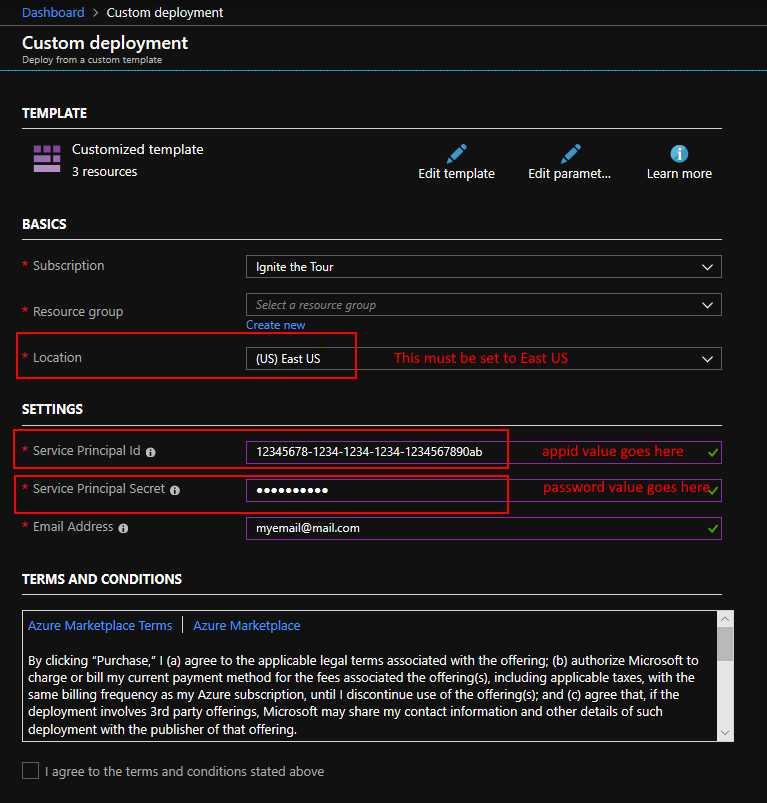
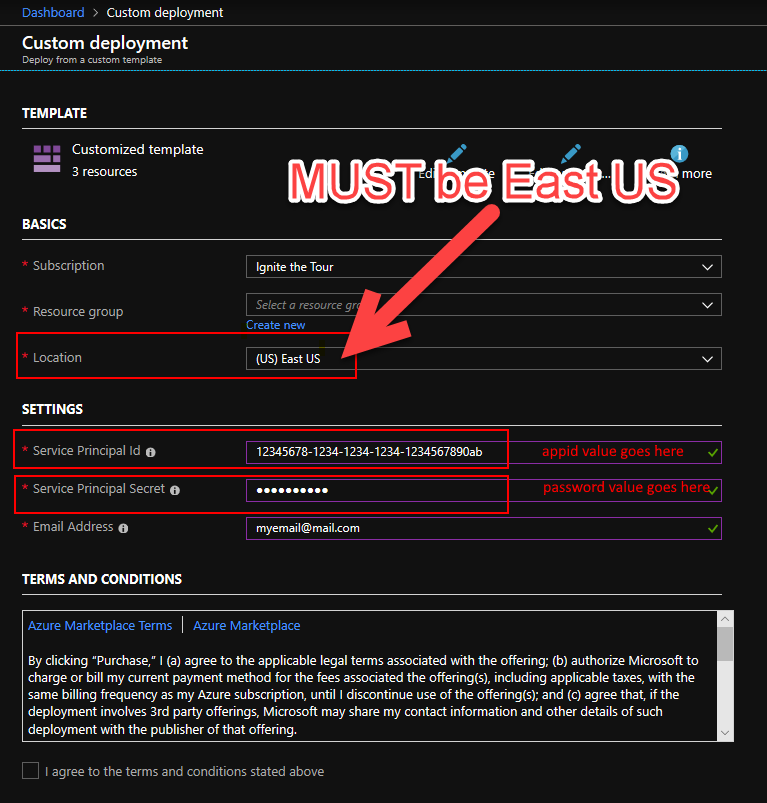
update deployment steps

Changed region(s): [[0.3598, 0.1868, 0.8996, 0.467]]

diff --git a/apps50/demo-scripts/deployment.md b/apps50/demo-scripts/deployment.md
@@ -17,7 +17,9 @@ AZURE_FD_ENDPOINT=
 
 As we progress through the Deployment steps, you will be asked to update values for these variables. This will make it easy to follow along with the demo scripts later on.
 
-First you will need to deploy the Tailwind Traders Reference Deployment into the East US region (It is very important that you deploy into the East US region).  
+First you will need to deploy the Tailwind Traders Reference Deployment into the East US region 
+
+> ⚠ It is very important that you deploy into the East US region. ⚠
 
 In order to deploy this template, you need an Azure Service Principal. If you do not have one, you may create one by following the steps below.
 
@@ -67,7 +69,9 @@ When you are ready, deploy the backend services by clicking the button below:
 
 [![Deploy to Azure](https://azuredeploy.net/deploybutton.svg)](https://portal.azure.com/#create/Microsoft.Template/uri/https%3A%2F%2Fraw.githubusercontent.com%2Fneilpeterson%2Ftailwind-reference-deployment%2Fmaster%2Fdeployment-artifacts-aks%2Fazuredeploy.json)
 
-This deployment will take around 20 minutes, one of the first items to be deployed into the resource group that you selected is a container instance named `bootstrap-container`.  Navigate to the `bootstap-container` instance in the Azure portal and select "Settings" => "Containers" => "Logs" and scroll down to the bottom of the log output.  Here you can obtain the values for  `AKS_RESOURCE_GROUP` and `AKS_BACKEND_ENDPOINT`, please store these values in your variables.txt file so that they can be retrieved later.
+This deployment will take around 20 minutes, one of the first items to be deployed into the resource group that you selected is a container instance named `bootstrap-container`.  Navigate to the `bootstap-container` instance in the Azure portal. From the left option panel, under "Settings", click on **Containers**. You will know the deployment is done when the **State** will be **Terminated**
+
+Once the deployment is completed, click the tab "Logs" (in the middle of the screen) and scroll down to the bottom of the log output.  Here you can obtain the values for  `AKS_RESOURCE_GROUP` and `AKS_BACKEND_ENDPOINT`, please store these values in your variables.txt file so that they can be retrieved later.
 
 ![](../assets/bootstrapcontainer.png)
 
